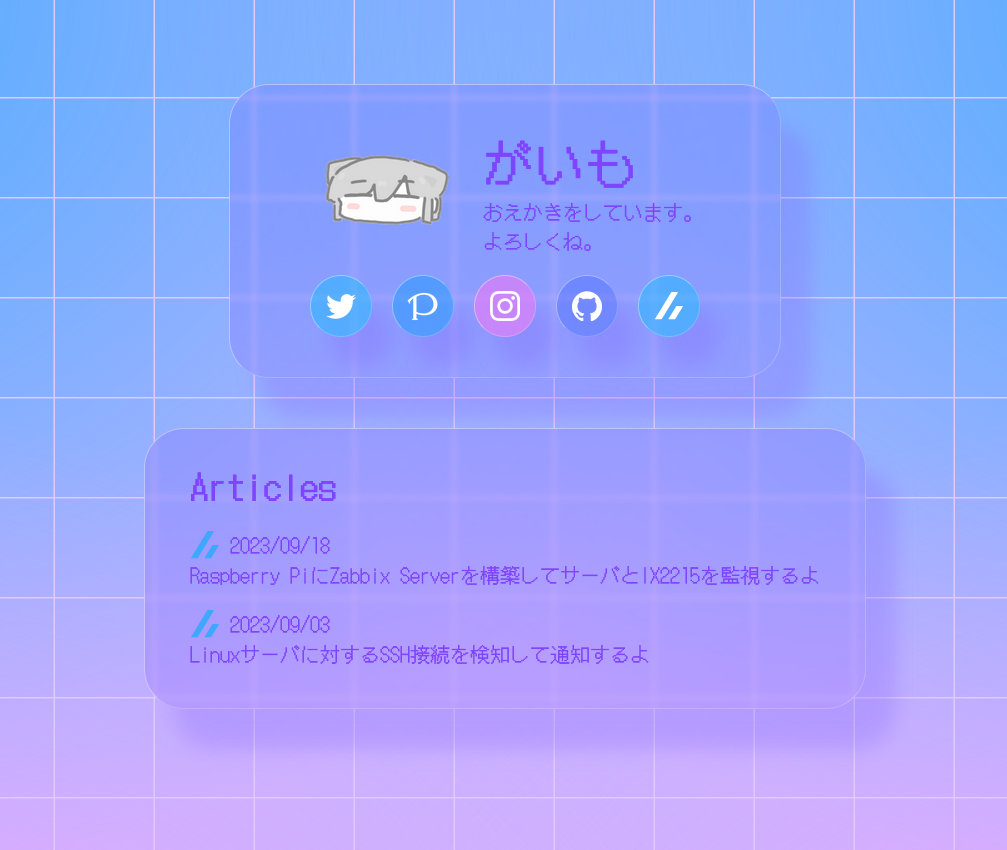
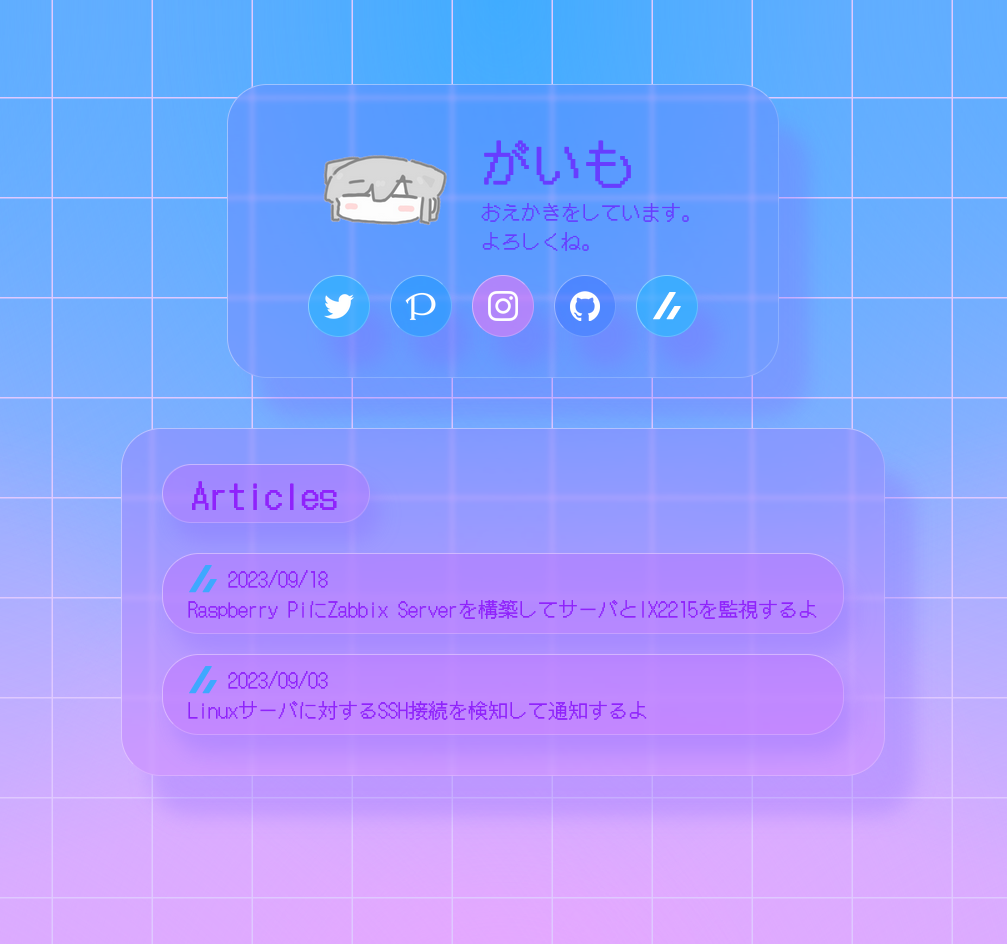
:art: Update Design

diff --git a/public/css/main.css b/public/css/main.css
@@ -24,7 +24,7 @@ body {
      -moz-user-select: none;
           user-select: none;
   background-color: hsl(254, 100%, 85%);
-  background-image: radial-gradient(at 0% 100%, rgb(239, 165, 255) 0px, transparent 50%), radial-gradient(at 100% 100%, rgb(239, 165, 255) 0px, transparent 50%), radial-gradient(at 100% 0%, rgb(64, 172, 255) 0px, transparent 50%), radial-gradient(at 0% 0%, rgb(64, 172, 255) 0px, transparent 50%);
+  background-image: radial-gradient(at 0% 100%, rgb(239, 165, 255) 0px, transparent 50%), radial-gradient(at 50% 100%, rgb(239, 165, 255) 0px, transparent 50%), radial-gradient(at 100% 100%, rgb(239, 165, 255) 0px, transparent 50%), radial-gradient(at 100% 0%, rgb(64, 172, 255) 0px, transparent 50%), radial-gradient(at 50% 0%, rgb(64, 172, 255) 0px, transparent 50%), radial-gradient(at 0% 0%, rgb(64, 172, 255) 0px, transparent 50%);
   margin: 0px;
 }
 
@@ -84,16 +84,16 @@ body {
 .profile .profile-main .name {
   margin-left: 20px;
   font-size: 30px;
-  color: #7e44ff;
+  color: #673dff;
 }
 .profile .profile-main .name h1 {
   font-size: 50px;
-  color: #7e44ff;
+  color: #673dff;
   margin: auto;
 }
 .profile .profile-main .name p {
   font-size: 20px;
-  color: #7e44ff;
+  color: #673dff;
   margin: auto;
 }
 .profile .sns {
@@ -168,7 +168,7 @@ body {
 .articles {
   display: grid;
   justify-items: center;
-  background-color: rgba(114, 63, 255, 0.18);
+  background-color: rgba(186, 63, 255, 0.18);
   border: 1px solid rgba(255, 255, 255, 0.4);
   border-right-color: rgba(255, 255, 255, 0.2);
   border-bottom-color: rgba(255, 255, 255, 0.2);
@@ -177,9 +177,9 @@ body {
           backdrop-filter: blur(3px);
   box-shadow: 30px 40px 20px 0 rgba(133, 99, 255, 0.28);
   line-height: normal;
-  width: 80%;
+  width: 85%;
   height: auto;
-  padding: 30px 20px 40px 20px;
+  padding: 35px 20px 40px 20px;
   margin: auto;
   gap: 20px;
 }
@@ -202,14 +202,34 @@ body {
   height: 30px;
 }
 .articles .articles-main h2 {
+  background-color: rgba(190, 111, 255, 0.4);
+  border: 1px solid rgba(255, 255, 255, 0.4);
+  border-right-color: rgba(255, 255, 255, 0.2);
+  border-bottom-color: rgba(255, 255, 255, 0.2);
+  border-radius: 37px;
+  -webkit-backdrop-filter: blur(3px);
+          backdrop-filter: blur(3px);
+  box-shadow: 10px 20px 20px 0 rgba(133, 99, 255, 0.28);
   font-size: 35px;
-  color: #7e44ff;
+  text-indent: 25px;
+  width: 200px;
+  color: #8f23fb;
   margin: 0px;
+  margin-bottom: 10px;
+  padding: 3px;
+  transition: 0.5s;
+}
+.articles .articles-main h2:hover {
+  transform: scale(1.06, 1.06);
+}
+.articles .articles-main h2:active {
+  transform: scale(0.9, 0.9);
 }
 .articles .articles-main p {
   margin: 0px;
   text-align: left;
   font-size: 20px;
+  text-indent: 0px;
 }
 .articles .articles-main ul {
   display: flex;
@@ -223,22 +243,36 @@ body {
   margin: 0px;
 }
 .articles .articles-main a {
+  background-color: rgba(190, 111, 255, 0.4);
+  border: 1px solid rgba(255, 255, 255, 0.4);
+  border-right-color: rgba(255, 255, 255, 0.2);
+  border-bottom-color: rgba(255, 255, 255, 0.2);
+  border-radius: 37px;
+  -webkit-backdrop-filter: blur(3px);
+          backdrop-filter: blur(3px);
+  box-shadow: 10px 20px 20px 0 rgba(133, 99, 255, 0.28);
+  font-size: 35px;
+  text-indent: 25px;
   display: flex;
   flex-direction: column;
   margin: 0px;
+  padding: 10px 25px 10px 25px;
   font-size: 20px;
-  color: #7e44ff;
+  color: #8f23fb;
   text-decoration: none;
   transition: 0.5s;
 }
 .articles .articles-main a:hover {
-  color: #f0e9ff;
+  transform: scale(1.03, 1.03);
+}
+.articles .articles-main a:active {
+  transform: scale(0.95, 0.95);
 }
 
 @media screen and (max-width: 480px) {
   .profile {
     width: 80%;
-    margin-top: 60px;
+    margin-top: 40px;
     padding: 40px 20px 40px 20px;
   }
   .profile .profile-main {
@@ -268,6 +302,9 @@ body {
     width: 80%;
     margin-bottom: 70px;
     padding: 30px 20px 30px 20px;
+  }
+  .articles .articles-main h2 {
+    text-indent: 23px;
   }
   .articles .articles-main p {
     font-size: 18px;

diff --git a/public/css/_articles.scss b/public/css/_articles.scss
@@ -1,7 +1,7 @@
 .articles {
 	display: grid;
 	justify-items: center;
-	background-color: rgba(114, 63, 255, 0.18);
+	background-color: rgba(186, 63, 255, 0.18);
 	border: 1px solid rgba(255, 255, 255, 0.4);
 	border-right-color: rgba(255, 255, 255, 0.2);
 	border-bottom-color: rgba(255, 255, 255, 0.2);
@@ -9,9 +9,9 @@
 	backdrop-filter: blur(3px);
 	box-shadow: 30px 40px 20px 0 rgba(133, 99, 255, 0.28);
 	line-height: normal;
-	width: 80%;
+	width: 85%;
 	height: auto;
-	padding: 30px 20px 40px 20px;
+	padding: 35px 20px 40px 20px;
 	margin: auto;
 	gap: 20px;
 	.articles-main {
@@ -34,14 +34,33 @@
 			}
 		}
 		h2 {
+			background-color: rgba(190, 111, 255, 0.4);
+			border: 1px solid rgba(255, 255, 255, 0.4);
+			border-right-color: rgba(255, 255, 255, 0.2);
+			border-bottom-color: rgba(255, 255, 255, 0.2);
+			border-radius: 37px;
+			backdrop-filter: blur(3px);
+			box-shadow: 10px 20px 20px 0 rgba(133, 99, 255, 0.28);
 			font-size: 35px;
-			color: $text;
+			text-indent: 25px;
+			width: 200px;
+			color: $articles;
 			margin: 0px;
+			margin-bottom: 10px;
+			padding: 3px;
+			transition: .5s;
+			&:hover {
+				transform: scale(1.06, 1.06);
+			}
+			&:active {
+				transform: scale(0.9, 0.9);
+			}
 		}
 		p {
 			margin: 0px;
 			text-align: left;
 			font-size: 20px;
+			text-indent: 0px;
 		}
 		ul {
 			display: flex;
@@ -55,15 +74,28 @@
 			margin: 0px;
 		}
 		a {
+			background-color: rgba(190, 111, 255, 0.4);
+			border: 1px solid rgba(255, 255, 255, 0.4);
+			border-right-color: rgba(255, 255, 255, 0.2);
+			border-bottom-color: rgba(255, 255, 255, 0.2);
+			border-radius: 37px;
+			backdrop-filter: blur(3px);
+			box-shadow: 10px 20px 20px 0 rgba(133, 99, 255, 0.28);
+			font-size: 35px;
+			text-indent: 25px;
 			display: flex;
 			flex-direction: column;
 			margin: 0px;
+			padding: 10px 25px 10px 25px;
 			font-size: 20px;
-			color: $text;
+			color: $articles;
 			text-decoration: none;
 			transition: .5s;
 			&:hover {
-				color: $text-hover;
+				transform: scale(1.03, 1.03);
+			}
+			&:active {
+				transform: scale(0.95, 0.95);
 			}
 		}
 	}

diff --git a/public/css/_background.scss b/public/css/_background.scss
@@ -4,8 +4,10 @@ body {
 	background-color: hsla(254, 100%, 85%, 1);
 	background-image:
 	radial-gradient(at 0% 100%, rgb(239, 165, 255) 0px, transparent 50%),
+	radial-gradient(at 50% 100%, rgb(239, 165, 255) 0px, transparent 50%),
 	radial-gradient(at 100% 100%, rgb(239, 165, 255) 0px, transparent 50%),
 	radial-gradient(at 100% 0%, rgb(64, 172, 255) 0px, transparent 50%),
+	radial-gradient(at 50% 0%, rgb(64, 172, 255) 0px, transparent 50%),
 	radial-gradient(at 0% 0%, rgb(64, 172, 255) 0px, transparent 50%);
 	margin: 0px;
 }

diff --git a/public/css/_480px.scss b/public/css/_480px.scss
@@ -1,7 +1,7 @@
 @media screen and (max-width: 480px) {
     .profile {
         width: 80%;
-        margin-top: 60px;
+        margin-top: 40px;
         padding: 40px 20px 40px 20px;
         .profile-main {
             flex-direction: column;
@@ -34,6 +34,9 @@
         margin-bottom: 70px;
         padding: 30px 20px 30px 20px;
         .articles-main {
+            h2 {
+                text-indent: 23px;
+            }
             p {
                 font-size: 18px;
             }

diff --git a/public/css/_profile.scss b/public/css/_profile.scss
@@ -32,15 +32,15 @@
 		.name {
 			margin-left: 20px;
 			font-size: 30px;
-			color: $text;
+			color: $profile;
 			h1 {
 				font-size: 50px;
-				color: $text;
+				color: $profile;
 				margin: auto;
 			}
 			p {
 				font-size: 20px;
-				color: $text;
+				color: $profile;
 				margin: auto;
 			}
 		}

diff --git a/public/css/main.scss b/public/css/main.scss
@@ -1,5 +1,5 @@
-$text: #7e44ff;
-$text-hover: #f0e9ff;
+$profile: #673dff;
+$articles: #8f23fb;
 
 @font-face {
 	font-family: 'D';
